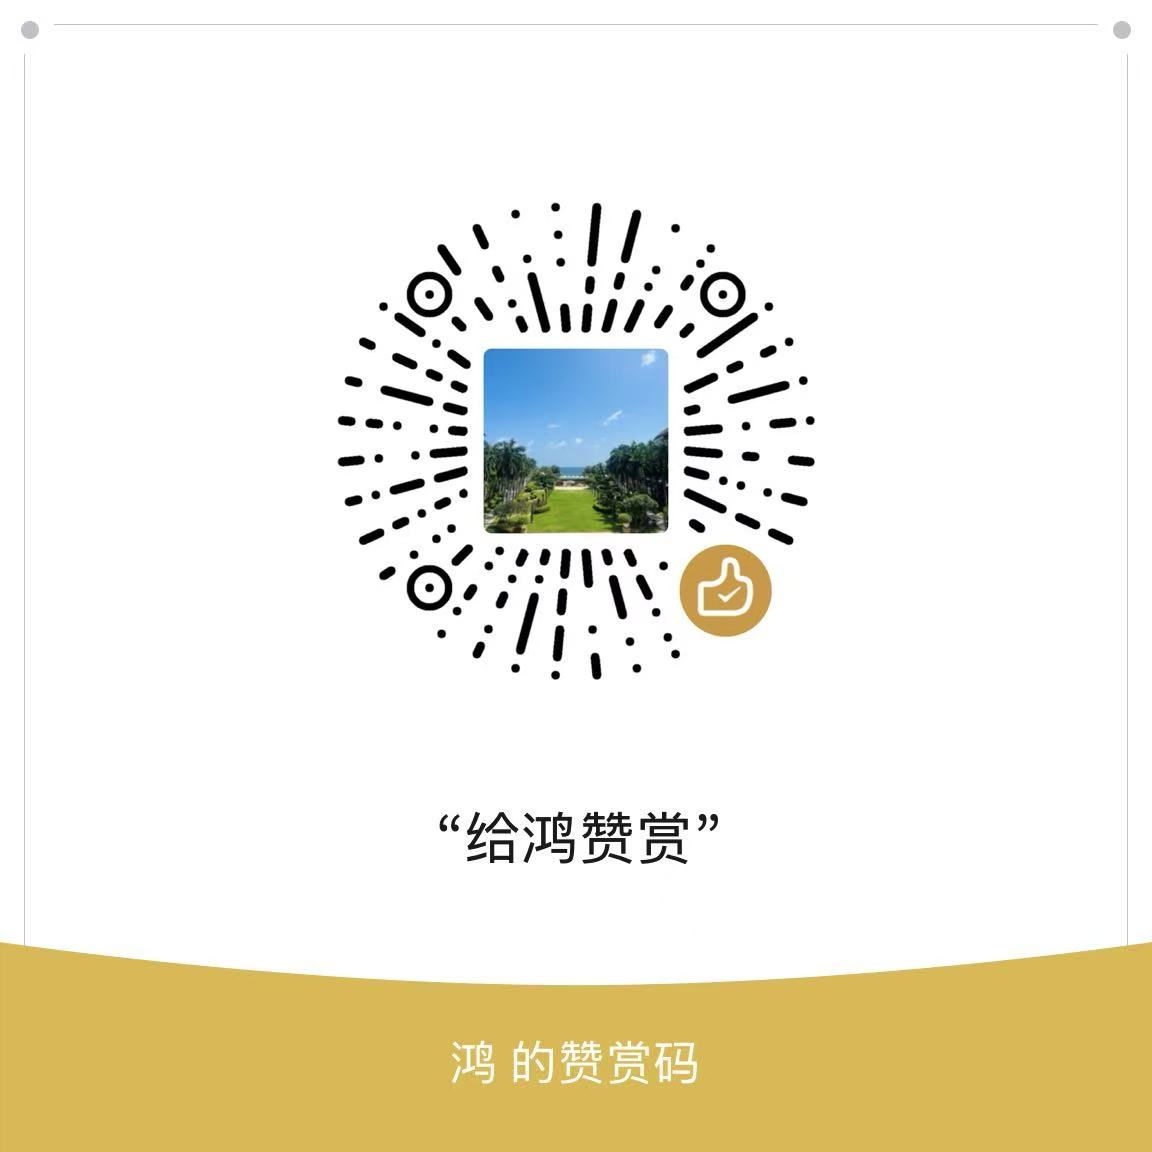
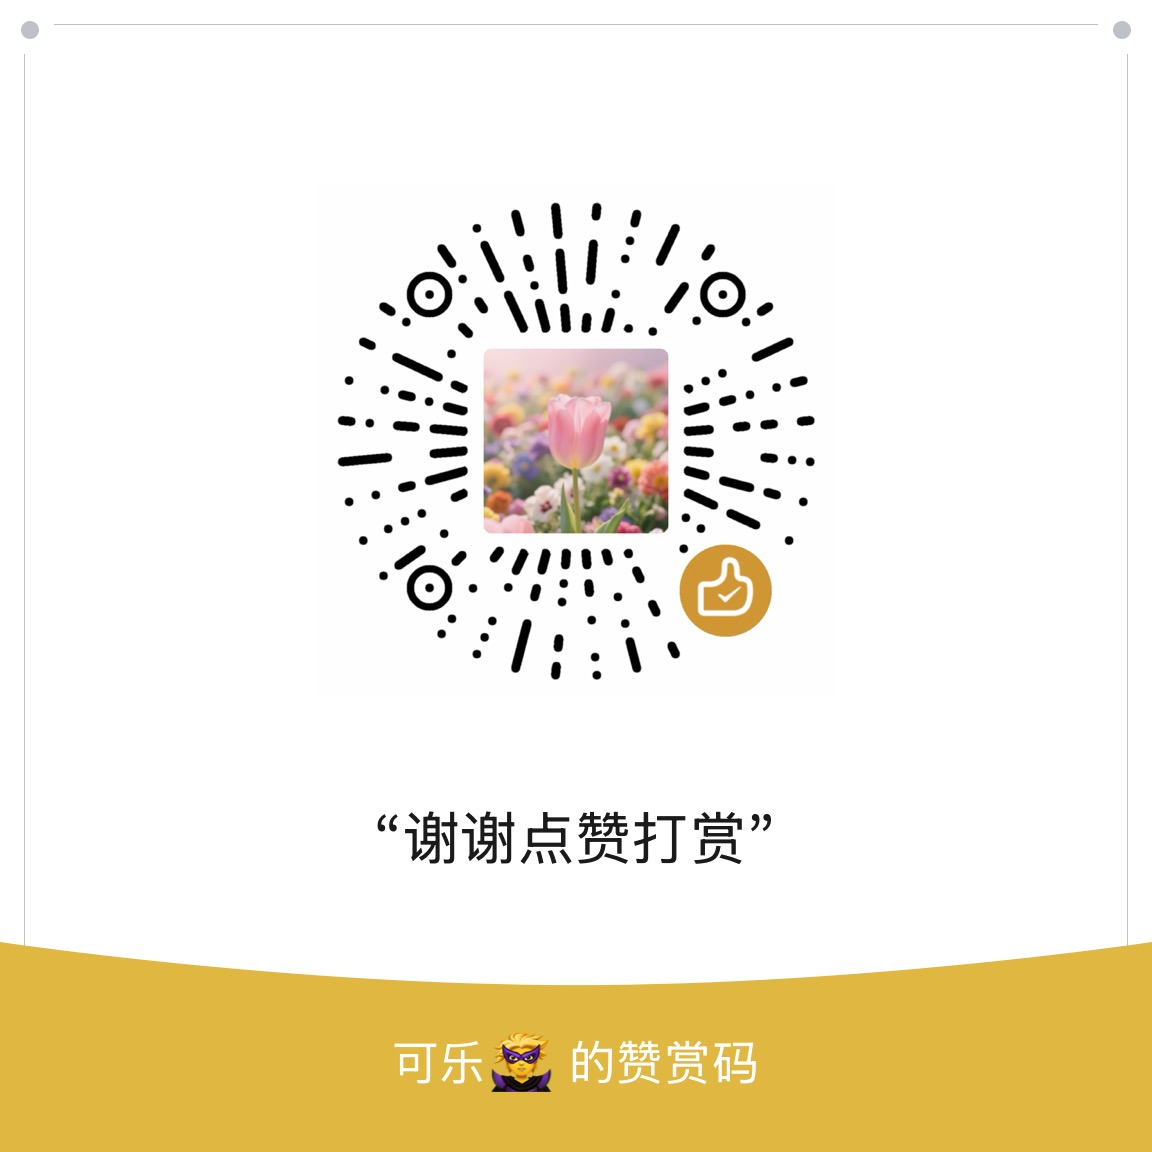
打赏页双入口分流：替换为新赞赏码，公益入口独立且待配置

diff --git a/src/pages/Support.tsx b/src/pages/Support.tsx
@@ -1,22 +1,30 @@
 import { Download, ExternalLink, Github, Heart, QrCode } from "lucide-react";
 import { useEffect, useState } from "react";
-import { REPO_URL } from "../config";
+import { CHARITY_DESC, CHARITY_LABEL, CHARITY_URL, REPO_URL } from "../config";
 
 const QR_URL = `${import.meta.env.BASE_URL}support/wechat-reward.jpg`;
+const CHARITY_QR_URL = `${import.meta.env.BASE_URL}support/charity-qr.jpg`;
 
-export function Support() {
-  const [status, setStatus] = useState<"loading" | "ready" | "missing">("loading");
+type ImageStatus = "loading" | "ready" | "missing";
 
+function useImageStatus(url: string): ImageStatus {
+  const [status, setStatus] = useState<ImageStatus>("loading");
   useEffect(() => {
     const img = new Image();
     img.onload = () => setStatus("ready");
     img.onerror = () => setStatus("missing");
-    img.src = QR_URL;
+    img.src = url;
     return () => {
       img.onload = null;
       img.onerror = null;
     };
-  }, []);
+  }, [url]);
+  return status;
+}
+
+export function Support() {
+  const reward = useImageStatus(QR_URL);
+  const charityQr = useImageStatus(CHARITY_QR_URL);
 
   return (
     <div className="page support">
@@ -32,10 +40,10 @@ export function Support() {
         <section className="panel support-qr">
           <div className="support-qr-title">
             <QrCode size={18} />
-            <h3>微信赞赏码</h3>
+            <h3>支持开发者 · 微信赞赏码</h3>
           </div>
 
-          {status === "ready" ? (
+          {reward === "ready" ? (
             <>
               <a className="support-qr-image" href={QR_URL} target="_blank" rel="noreferrer" aria-label="查看微信赞赏码大图">
                 <img src={QR_URL} alt="微信赞赏码，用微信扫一扫即可赞赏" />
@@ -45,7 +53,7 @@ export function Support() {
                 <Download size={16} /> 保存赞赏码图片
               </a>
             </>
-          ) : status === "loading" ? (
+          ) : reward === "loading" ? (
             <div className="support-placeholder">
               <span className="spinner" />
               <p>正在加载赞赏码…</p>
@@ -75,6 +83,9 @@ export function Support() {
               <b>记录由微信保存。</b>收款明细在微信「赞赏码 → 赞赏记录」中查看；本应用不接触、也不保存任何支付信息。
             </li>
             <li>
+              <b>公益入口独立。</b>下面的公益链接与赞赏互不挂钩，本应用不代收善款，也不从赞赏金额中抽成。
+            </li>
+            <li>
               <b>其他支持方式。</b>在 GitHub 上点 Star、反馈问题或分享给需要的朋友，都同样有帮助。
             </li>
           </ul>
@@ -83,6 +94,32 @@ export function Support() {
           </a>
         </section>
       </div>
+
+      <section className="panel support-charity">
+        <div className="support-charity-head">
+          <Heart size={18} />
+          <h3>也想直接支持公益？</h3>
+        </div>
+        <p className="muted">{CHARITY_DESC}</p>
+
+        {CHARITY_URL ? (
+          <a className="btn btn-primary" href={CHARITY_URL} target="_blank" rel="noreferrer">
+            {CHARITY_LABEL} <ExternalLink size={16} />
+          </a>
+        ) : charityQr === "ready" ? (
+          <>
+            <a className="support-charity-qr" href={CHARITY_QR_URL} target="_blank" rel="noreferrer" aria-label="查看公益项目二维码大图">
+              <img src={CHARITY_QR_URL} alt="腾讯公益项目二维码，用微信扫一扫即可捐赠" />
+            </a>
+            <p className="support-qr-hint">用微信「扫一扫」→ 在腾讯公益完成捐赠</p>
+          </>
+        ) : (
+          <div className="support-placeholder support-placeholder-sm">
+            <QrCode size={44} strokeWidth={1.2} />
+            <p>公益项目入口即将上线，感谢你的耐心。</p>
+          </div>
+        )}
+      </section>
 
       <p className="colophon">
         <Heart size={14} /> 谢谢你让这份词库继续生长。

diff --git a/src/config.ts b/src/config.ts
@@ -1,2 +1,13 @@
 /** 应用内所有 GitHub 链接统一指向本项目仓库。上游归属以关于页与 README 中的文字署名保留。 */
 export const REPO_URL = "https://github.com/linhong-cn/shenwordaltas";
+
+/**
+ * 公益入口（与「支持开发者」的赞赏码完全分开）。
+ * 优先填腾讯公益项目或「一起捐」链接；留空时回退读取 public/support/charity-qr.jpg。
+ * 善款由腾讯公益平台上具有公开募捐资格的慈善组织直接接收，本应用不代收、不经手，
+ * 也不从赞赏金额中按比例抽成。二者都没有配置时，页面显示占位。
+ */
+export const CHARITY_URL = "";
+export const CHARITY_LABEL = "前往腾讯公益项目";
+export const CHARITY_DESC =
+  "如果你想直接做公益，可以点下面的入口。善款由腾讯公益平台上的持证慈善组织接收并开具捐赠票据，与上面的赞赏互不相关；本应用和作者不代收、不经手任何公益款项。";

diff --git a/src/styles/app.css b/src/styles/app.css
@@ -4347,3 +4347,19 @@ a:hover .mark-needle,
 @media (max-width: 719px) {
   .support-grid { grid-template-columns: 1fr; }
 }
+
+/* 打赏页 — 独立公益入口 */
+.support-charity { margin-top: 16px; text-align: center; }
+.support-charity-head {
+  display: flex; align-items: center; justify-content: center; gap: 8px;
+  color: var(--sage-ink); margin-bottom: 10px;
+}
+.support-charity-head h3 { margin: 0; font: 600 19px var(--serif); color: var(--ink); }
+.support-charity > .muted { max-width: 660px; margin: 0 auto 16px; line-height: 1.7; }
+.support-charity-qr {
+  display: block; width: min(100%, 260px); margin: 0 auto;
+  border: 1px solid var(--line); border-radius: var(--r);
+  overflow: hidden; background: #fff; box-shadow: var(--shadow-sm);
+}
+.support-charity-qr img { display: block; width: 100%; height: auto; }
+.support-placeholder-sm { min-height: 150px; }

diff --git a/public/sw.js b/public/sw.js
@@ -1,5 +1,5 @@
 /* Grade 1-6 Atlas offline cache: app shell network-first, everything else cache-first. */
-const VERSION = "atlas-g1to6-v6";
+const VERSION = "atlas-g1to6-v7";
 const SHELL = `${VERSION}-shell`;
 const MEDIA = `${VERSION}-media`;
 

diff --git a/README.md b/README.md
@@ -47,6 +47,7 @@
 7. **去除上游考试相关表述**：应用文案、词条说明与语音中的相关措辞已替换为「深圳小学英语」，代码中的类名/注释也一并中性化；`CONTENT_LICENSE.md` 的法律声明按许可要求保留原文。
 8. **绘本相册**：新增 `#/books` 页面，按年级、上/下册、单元翻看一词一画卡片；六个年级共 1,880 张卡片图片另存于 `../深词光绘本图片/`，每张右下角标注本项目仓库来源。相册页卡片由词库插画实时绘制，不额外增加 App 体积。
 9. **打赏支持**：新增 `#/support` 页面，展示微信赞赏码（静态图片，不接支付 SDK、无需后端）；赞赏完全自愿，不解锁任何功能。二维码图片放在 `public/support/wechat-reward.jpg`，未放置时页面显示「即将上线」占位。微信赞赏码须由收款人本人实名认证并绑定中国大陆银行卡后开通，单笔上限 200 元，仅限个人非商业性赞赏；如将来提交 App Store，需按审核指南 3.1.1 移除外部打赏入口或改走应用内购买。
+10. **公益双入口**：打赏页把「支持开发者」与「直接支持公益」做成两个互不挂钩的入口。赞赏码仍是对作者的个人赠与；公益入口通过腾讯公益项目/「一起捐」链接或二维码，让善款直接进入平台上具有公开募捐资格的慈善组织，应用不代收、不经手、也不从赞赏金额中抽成。配置见 5.8。
 
 词表与素材的原始汇总资料（词表 Markdown、图片、音频、匹配报告）位于同级上级目录 `../小学六年级英语单词/`。
 
@@ -136,7 +137,7 @@ npm install
 
 - 新增或替换某年级素材时，保持 `public/atlas/gN/` 下的目录结构与 `index.json` 的 `count`、`illustrated`、`voiced`、`chunk`、`words` 一致；`entries/` 按 `chunk`（100）分片命名 `{n}.json`。
 - 媒体文件以词条 `id` 命名；缺失插画或音频时应用会自动留空，不必放占位文件。
-- **改过任何静态资源后，把 `public/sw.js` 的 `VERSION` 升一级**（当前 `atlas-g1to6-v6`）。Service Worker 对音效等资源是缓存优先的，不升版本时已安装 PWA 仍会拿旧文件；JS/CSS 因构建带内容哈希可例外，但按统一约定仍建议升级。
+- **改过任何静态资源后，把 `public/sw.js` 的 `VERSION` 升一级**（当前 `atlas-g1to6-v7`）。Service Worker 对音效等资源是缓存优先的，不升版本时已安装 PWA 仍会拿旧文件；JS/CSS 因构建带内容哈希可例外，但按统一约定仍建议升级。
 - 词条说明里的中性措辞为「参考词库词条」「未匹配到词库插画」，不要再写回上游品牌名。
 
 ### 5.5 iOS 工程
@@ -150,7 +151,7 @@ npm install
 
 - **当前分享链接**：<https://sz-grade-atlas.app.workbuddy.host/?sharecode=2D3VMYQIBK>（含访问码，请勿公开转发）。
 - **绘本相册直达链接**：<https://sz-grade-atlas.app.workbuddy.host/?sharecode=2D3VMYQIBK#/books>（进入后选年级、册别、单元即可翻页）。可带参数定位到具体卡片，例如 `#/books?grade=6&part=下&unit=2&index=0`。注意 `sharecode` 是站点访问码，必须保留在 query 中；`#/books` 及其参数是应用内部路由。
-- **打赏支持页**：<https://sz-grade-atlas.app.workbuddy.host/?sharecode=2D3VMYQIBK#/support>。入口在「关于」页和页脚；展示 `public/support/wechat-reward.jpg`，图片不存在时显示占位，需自行开通微信赞赏码并把图片放入该路径后重新构建发布。
+- **打赏支持页**：<https://sz-grade-atlas.app.workbuddy.host/?sharecode=2D3VMYQIBK#/support>。入口在「关于」页和页脚；展示 `public/support/wechat-reward.jpg`（微信赞赏码）与独立的公益入口，图片/链接未配置时各自显示占位。配置方法见 5.8。
 - **发布源目录与项目构建产物是分开的**：线上应用绑定在 `/Users/hong/WorkBuddy/sz-grade-atlas-workspace/dist`，不是项目的 `dist/`。每次 `npm run build` 后需先同步，再从该目录发布：
 
   ```bash
@@ -170,6 +171,13 @@ npm install
 - 应用内 GitHub 链接由 `src/config.ts` 的 `REPO_URL` 控制；`UPSTREAM_REPO_URL` 是上游 Word Atlas 的署名链接，**不要混用或删除**（CC BY 4.0 要求）。`package.json` 的 `homepage` / `repository` / `bugs` 也指向本项目仓库。
 - 日常提交：`git add -A && git commit -m "…" && git push`（`main` 已跟踪 `origin/main`）。
 - 克隆后需自行生成构建产物：`npm ci && npm run build`；`dist/`、`ios/App/App/public/` 均为可再生产物，未入库。
+
+### 5.8 打赏页与公益入口配置
+
+- **赞赏码**：把微信「赞赏码」保存的图片放到 `public/support/wechat-reward.jpg`（当前为 1152×1152 JPEG）。
+- **公益入口**：二选一，在 `src/config.ts` 填 `CHARITY_URL`（腾讯公益项目或「一起捐」链接），或把公益二维码放到 `public/support/charity-qr.jpg`。两者都没有时页面显示「公益项目入口即将上线」占位。`CHARITY_LABEL` / `CHARITY_DESC` 可改文案。
+- **合规边界**：依据《中华人民共和国慈善法》（2023 修正，2024-09-05 施行）第 22、26、27、37、113 条，只有取得公开募捐资格的慈善组织可以面向社会公众募捐；个人不得自行收款募捐，互联网公开募捐须在民政部指定平台进行；承诺把部分所得用于慈善需事前签书面捐赠协议、事后履行并公开。因此本页**不把用户赞赏金额与公益比例挂钩、不宣称代收善款、不以公益名义诱导打赏**；公益入口让用户直接捐给腾讯公益平台上的持证慈善组织，善款不经作者账户。改文案时务必保留这条边界。
+- 每次替换图片或修改 `src/config.ts` 后需重新构建、升 `sw.js` 版本并发布。
 
 ## 六、已知限制与免责
 
